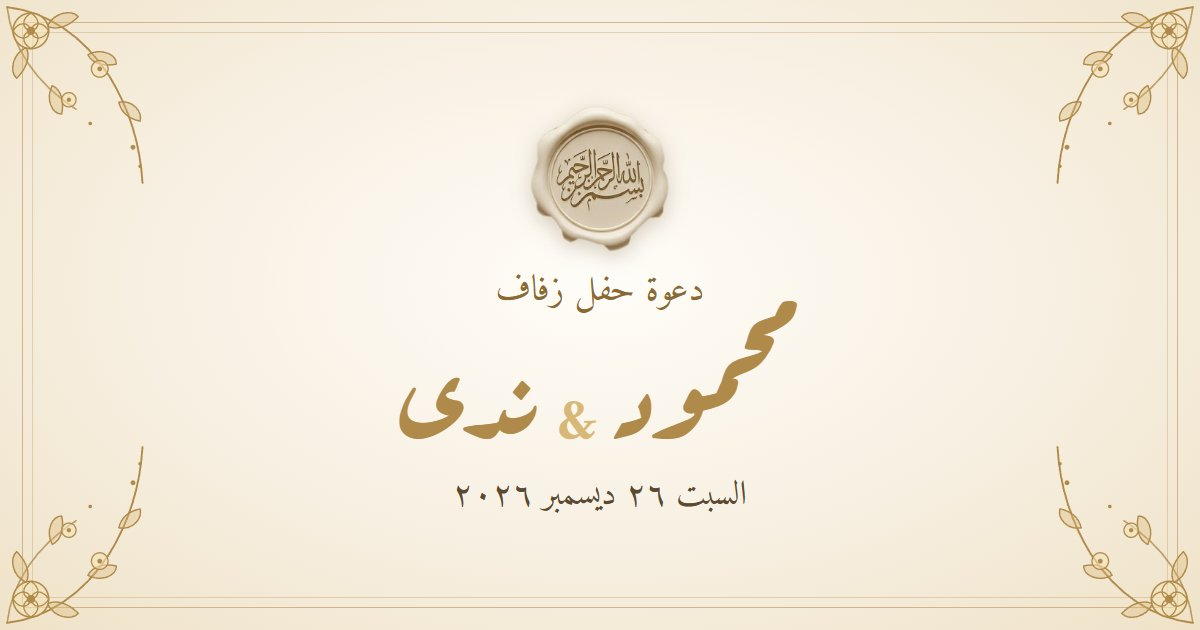
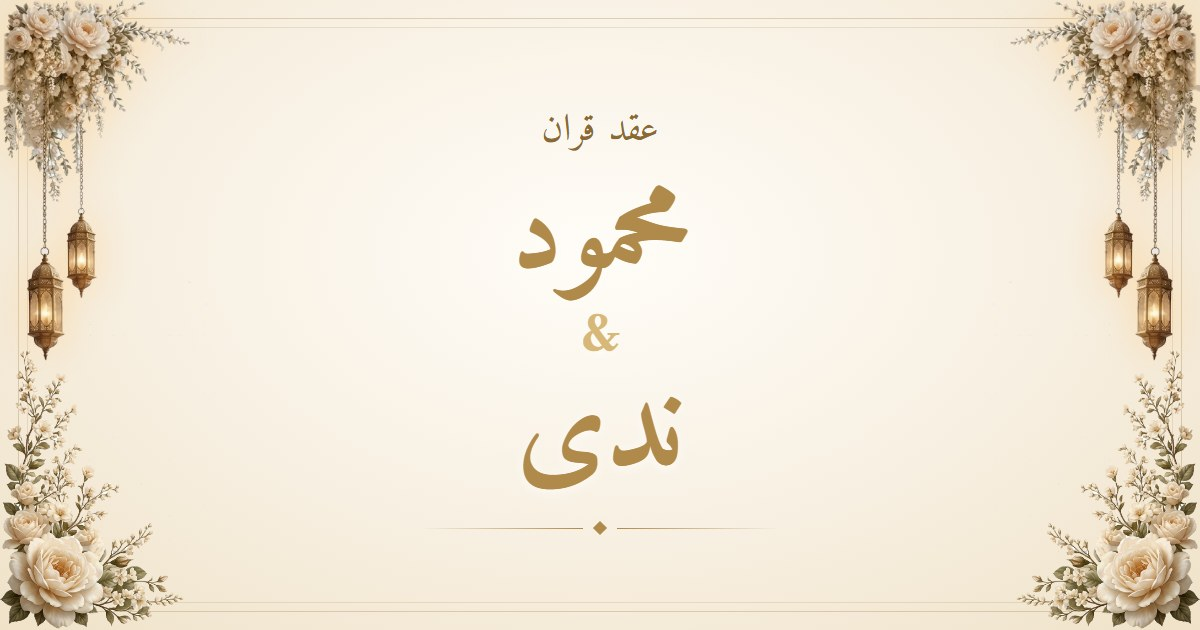
صورة جديدة للينك على شكل الغلاف والأسامي تحت بعض

Changed region(s): [[0.0, 0.0, 1.0, 0.9952], [0.3083, 0.4825, 0.6783, 0.8444], [0.4008, 0.181, 0.5858, 0.573]]

diff --git a/404.html b/404.html
@@ -22,7 +22,7 @@
   <meta property="og:site_name" content="دعوة عقد قران محمود &amp; ندى">
   <meta property="og:title" content="دعوة عقد قران محمود &amp; ندى 💍">
   <meta property="og:description" content="السبت ٢٦ ديسمبر ٢٠٢٦ — افتح الدعوة وأكّد حضورك">
-  <meta property="og:image" content="https://mahmoudprog.github.io/My-wedding/images/og/og.jpg">
+  <meta property="og:image" content="https://mahmoudprog.github.io/My-wedding/images/og/og.jpg?v=2">
   <meta property="og:image:width" content="1200">
   <meta property="og:image:height" content="630">
   <meta property="og:url" content="https://mahmoudprog.github.io/My-wedding/">

diff --git a/index.html b/index.html
@@ -22,7 +22,7 @@
   <meta property="og:site_name" content="دعوة عقد قران محمود &amp; ندى">
   <meta property="og:title" content="دعوة عقد قران محمود &amp; ندى 💍">
   <meta property="og:description" content="السبت ٢٦ ديسمبر ٢٠٢٦ — افتح الدعوة وأكّد حضورك">
-  <meta property="og:image" content="https://mahmoudprog.github.io/My-wedding/images/og/og.jpg">
+  <meta property="og:image" content="https://mahmoudprog.github.io/My-wedding/images/og/og.jpg?v=2">
   <meta property="og:image:width" content="1200">
   <meta property="og:image:height" content="630">
   <meta property="og:url" content="https://mahmoudprog.github.io/My-wedding/">
